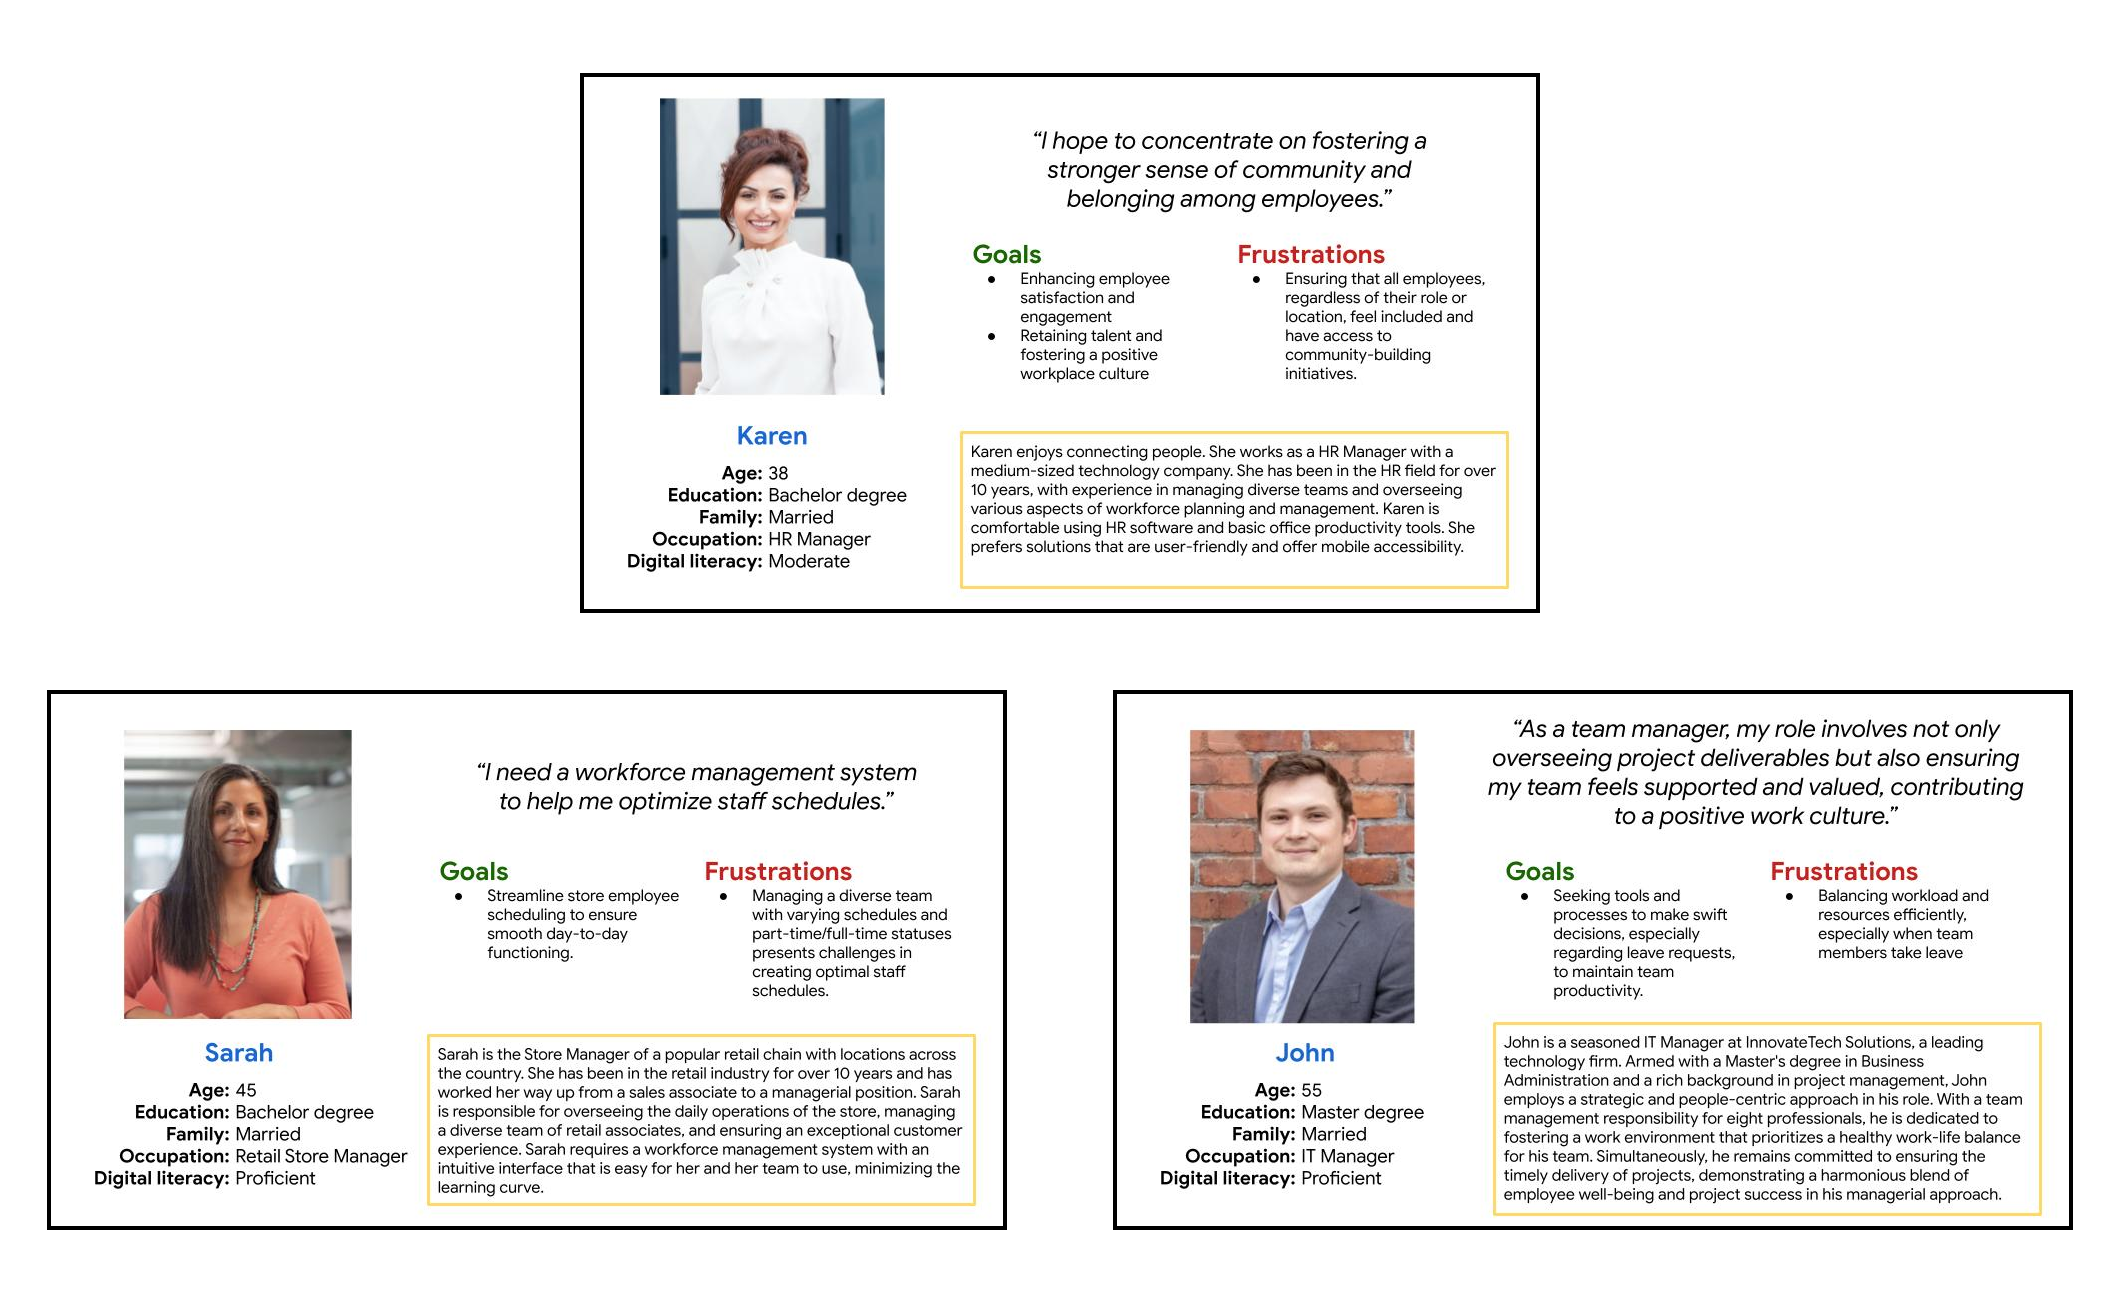
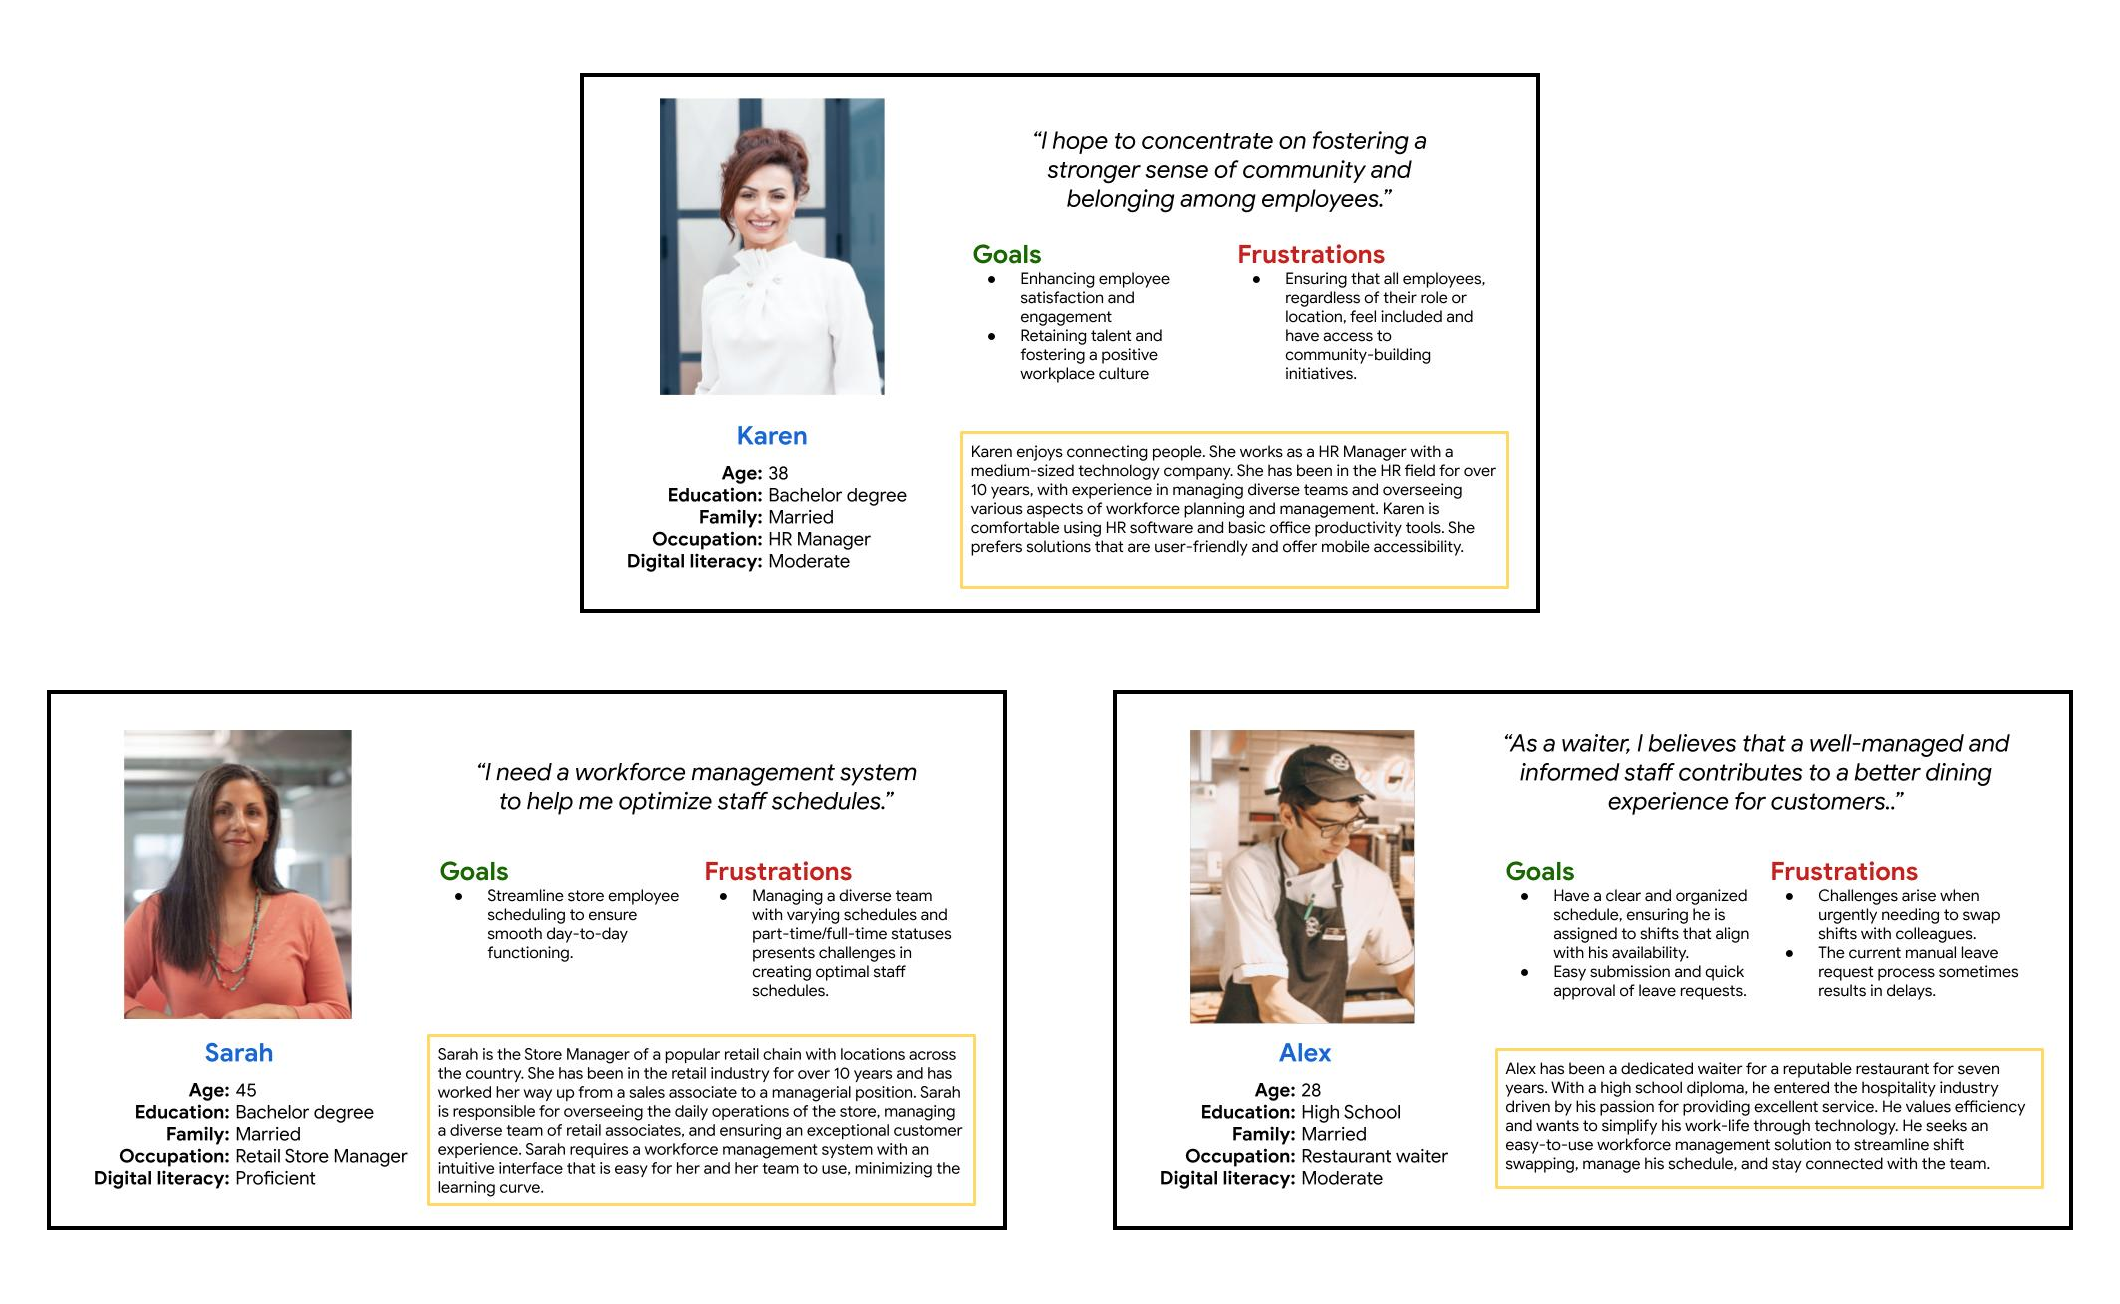
Update

Changed region(s): [[0.5604, 0.5521, 0.9651, 0.9509]]

diff --git a/workforce-mgt.html b/workforce-mgt.html
@@ -59,10 +59,10 @@
         </div>
         <div class="design-block">
             <h2 class="block-title">Brainstorm</h2>
-            <p>Our team was trying to think about the user stories during the brainstorming stage in order to address
+            <p>Our user segementations are Store manager, Store associate, HR manager for managing multiple stores. Our team was trying to think about the user stories during the brainstorming stage in order to address
                 the problems.
                 The user stories helped to define the functionality and features of a workforce management system from the
-                perspective of various users.
+                perspective of various users. 
             </p>
             <br/>
             <h3>Persona</h3>
